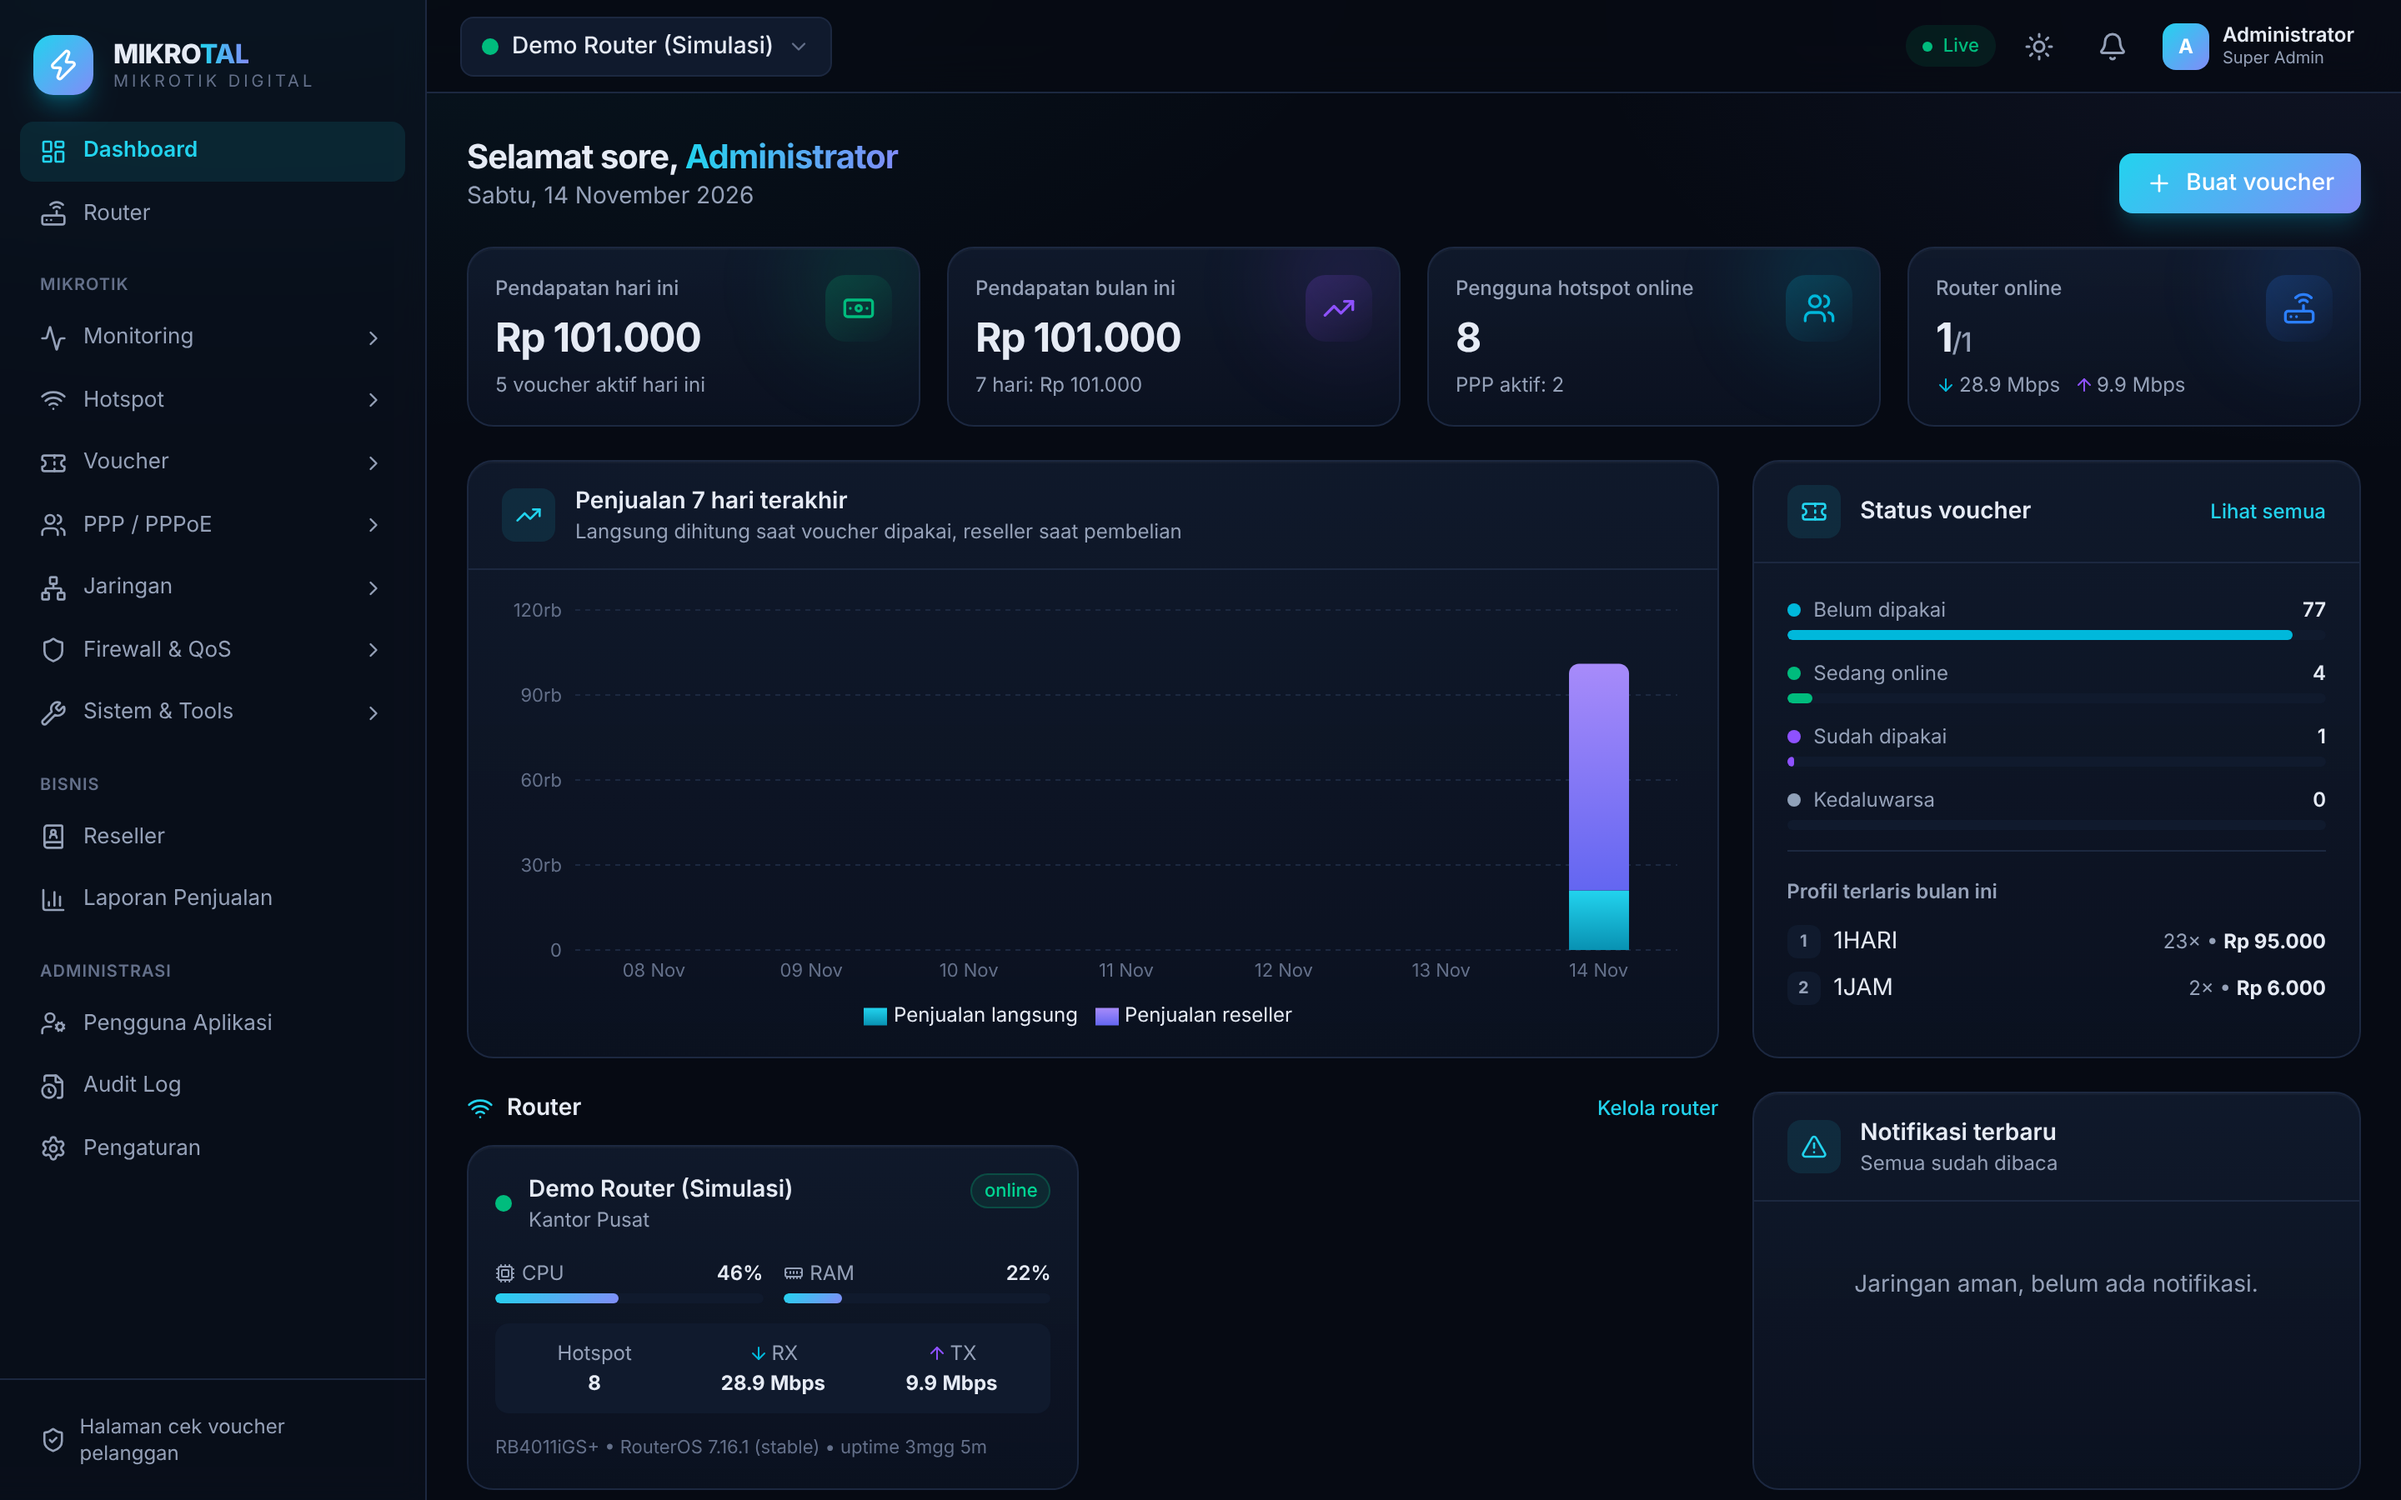
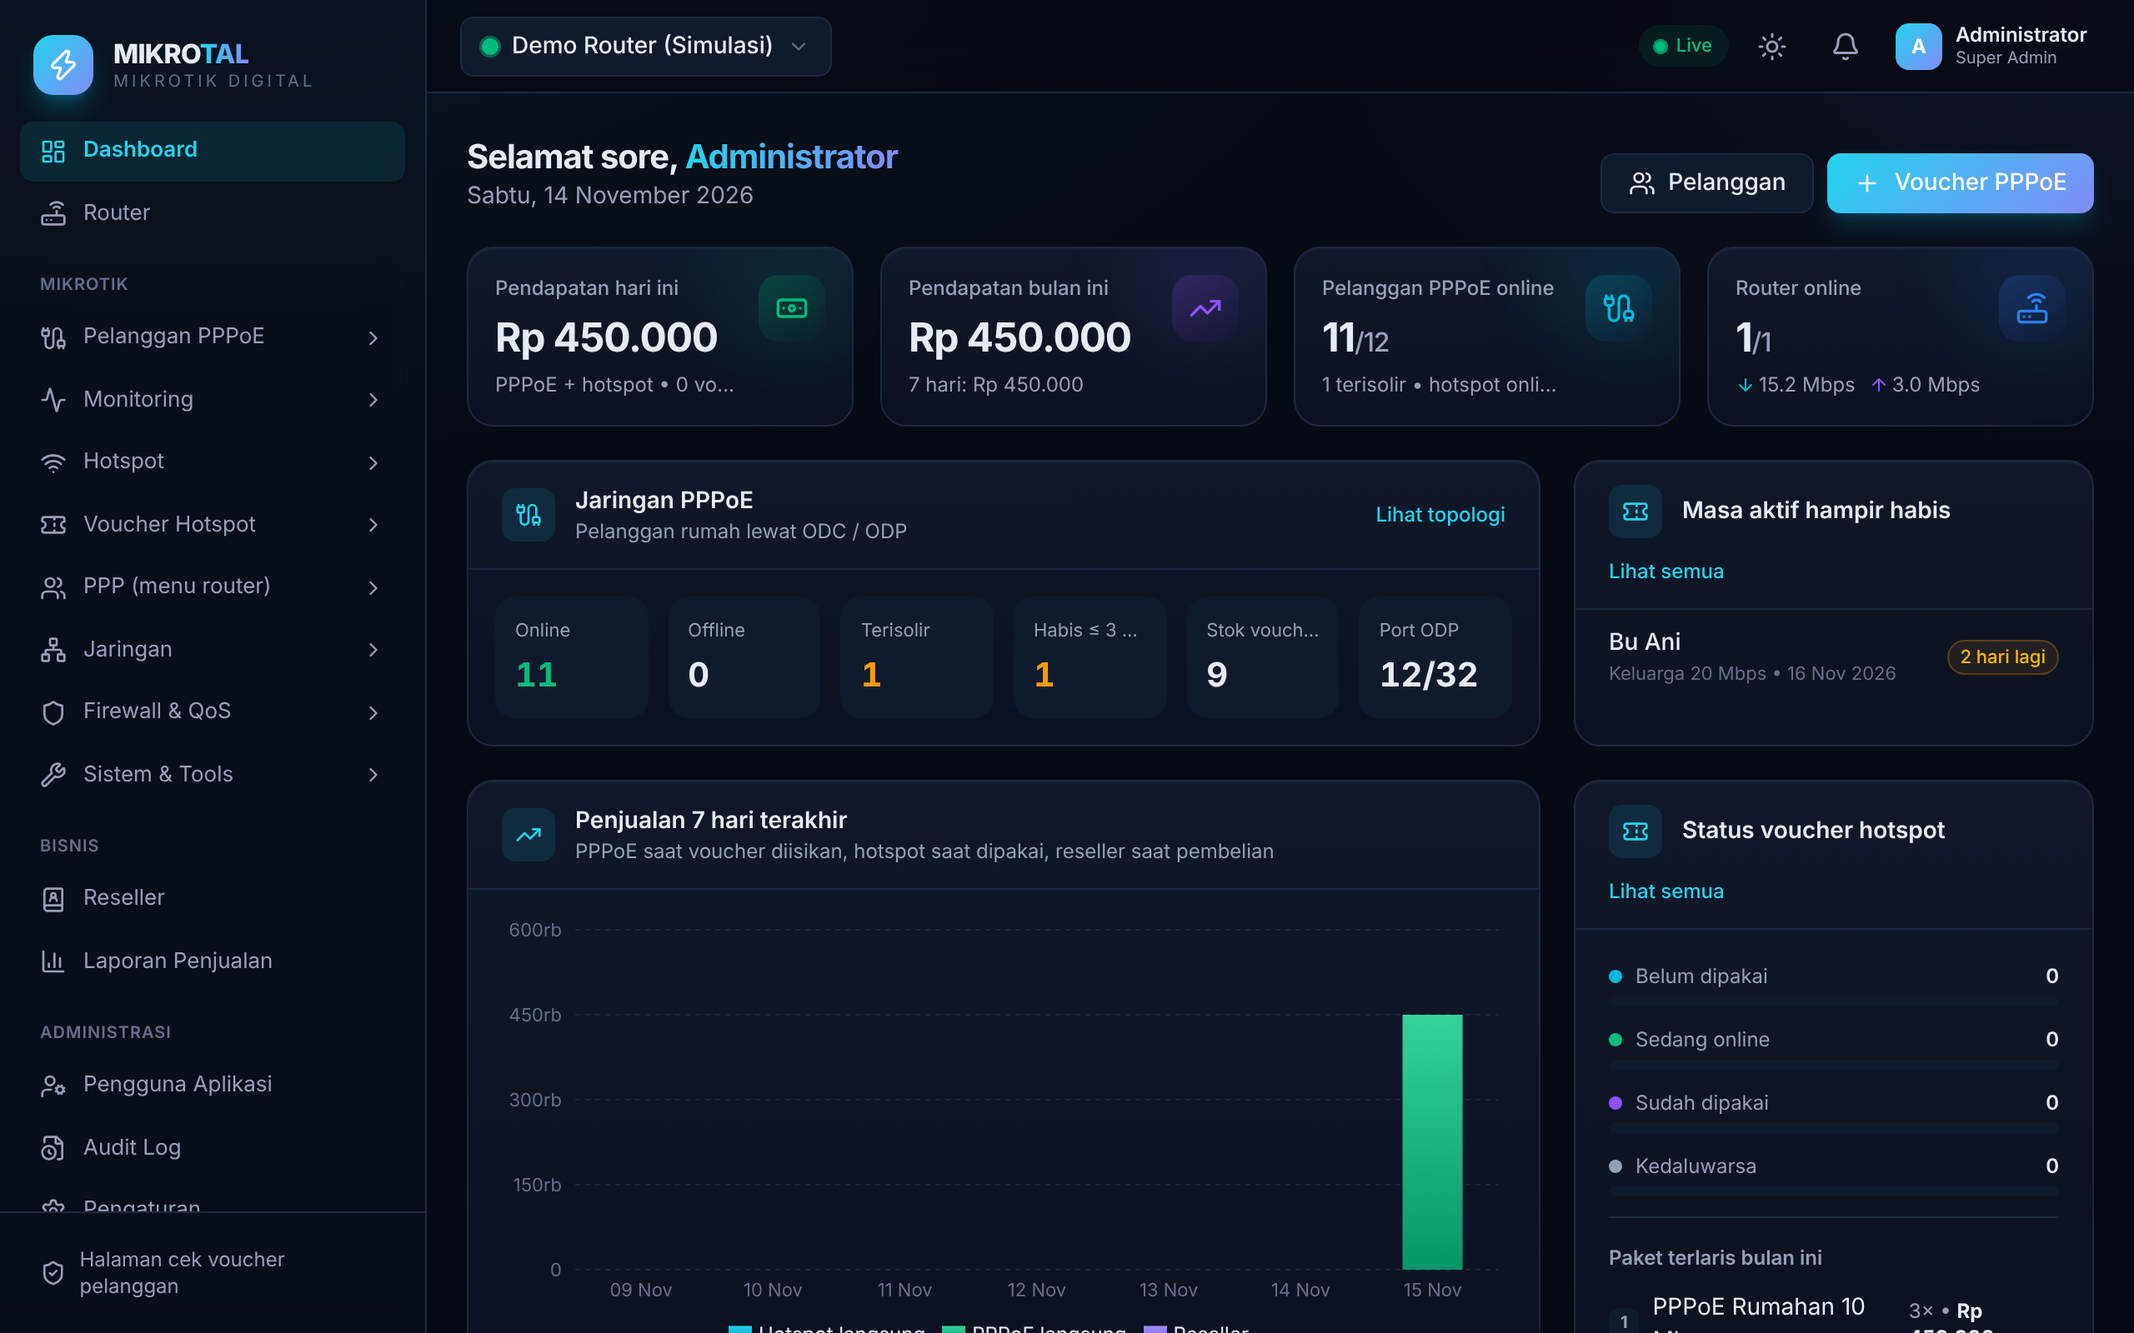
README sebagai artikel: informasi aplikasi, tangkapan layar, dan cara install
Panduan instal memakai branch main.

Claude-Session: https://claude.ai/code/session_01FKvTZUC4FHYdoLMvNywH88

diff --git a/README.md b/README.md
@@ -1,8 +1,68 @@
 # MIKROTAL — Mikrotik Digital
 
-Dashboard web untuk **monitoring, konfigurasi MikroTik, manajemen hotspot, dan penjualan voucher**. Satu aplikasi untuk banyak router, realtime, dan bisa dipakai dari HP. Winbox atau Mikhmon tidak diperlukan untuk pekerjaan sehari-hari.
+**MIKROTAL** adalah aplikasi web untuk mengelola jaringan MikroTik dari satu tempat: monitoring router, konfigurasi tanpa Winbox, hotspot dan voucher, serta pengelolaan **RT/RW Net berbasis PPPoE** lewat ODC dan ODP. Aplikasi dipasang di server sendiri, dibuka dari browser komputer atau HP, dan berbahasa Indonesia.
 
 ![Dashboard](docs/screenshots/dashboard.png)
+
+## Untuk siapa aplikasi ini
+
+- **Pengelola RT/RW Net** yang membagikan internet lewat fiber (OLT → ODC → ODP → rumah) dengan akun PPPoE dan sistem voucher.
+- **Pemilik hotspot voucher** (warung, kos, kafe) yang ingin generate, cetak, dan memantau voucher tanpa Mikhmon.
+- **Teknisi jaringan** yang butuh memantau banyak router dan mengubah konfigurasi dari HP.
+
+## Ringkasan kemampuan
+
+| Kebutuhan | Yang dikerjakan MIKROTAL |
+|---|---|
+| Tahu kondisi jaringan | Status router, CPU, RAM, trafik live, pelanggan online/offline, notifikasi ke Telegram |
+| Mengelola pelanggan rumah | Data pelanggan terhubung ke akun PPPoE, paket, masa aktif, dan port ODP |
+| Menagih tanpa repot | Voucher isi ulang masa aktif, isolir otomatis saat habis, halaman isi ulang untuk pelanggan |
+| Mencari kabel putus | Peta jalur server → ODC → ODP → rumah dan scan yang menunjuk segmen yang diduga putus |
+| Menjual voucher hotspot | Generate massal, cetak dengan QR, reseller bersaldo, laporan penjualan |
+| Mengatur router | 40+ menu RouterOS (firewall, queue, DHCP, PPP, dll) tanpa Winbox |
+
+| Pelanggan PPPoE | Topologi ODC / ODP |
+|---|---|
+| ![Pelanggan](docs/screenshots/pelanggan.png) | ![Topologi](docs/screenshots/topologi.png) |
+
+| Troubleshoot jalur kabel | Halaman isi ulang pelanggan |
+|---|---|
+| ![Troubleshoot](docs/screenshots/troubleshoot.png) | <img src="docs/screenshots/isi-ulang.png" alt="Isi ulang" width="260"> |
+
+## Cara install
+
+Butuh **Node.js 22.13 atau lebih baru** dan **Git**. Berjalan di Windows, Linux, dan macOS.
+
+```bash
+git clone https://github.com/nezzconstruction-cloud/MIKROTAL.git
+cd MIKROTAL
+cp .env.example .env        # Windows: copy .env.example .env
+```
+
+Buka file `.env`, ganti `APP_SECRET` dan `ADMIN_PASSWORD`, lalu:
+
+```bash
+npm install
+npm run build
+npm start
+```
+
+Buka `http://localhost:8080` (atau `http://IP-SERVER:8080` dari perangkat lain) dan login dengan `admin` serta password dari `.env` (bawaan `admin123`).
+
+Saat pertama jalan, otomatis dibuat:
+- akun **admin** (segera ganti password di menu *Akun saya*);
+- **Demo Router (Simulasi)** beserta contoh paket, ODC/ODP, pelanggan, profil hotspot, dan satu reseller, supaya semua fitur bisa langsung dicoba tanpa MikroTik. Hapus setelah menambahkan router asli, atau set `SEED_DEMO=false`.
+
+Pilihan lain dengan Docker:
+
+```bash
+cp .env.example .env        # ganti APP_SECRET dan ADMIN_PASSWORD
+docker compose up -d --build
+```
+
+Panduan lengkap (update dari versi sebelumnya, cadangan data, menjalankan otomatis saat server menyala, dan masalah yang sering muncul) ada di **[INSTALL.md](INSTALL.md)**.
+
+Setelah terpasang, lanjutkan ke [Menghubungkan MikroTik asli](#menghubungkan-mikrotik-asli) dan [Alur PPPoE (RT/RW Net)](#alur-pppoe-rtrw-net).
 
 ## Fitur utama
 
@@ -69,36 +129,6 @@ Dashboard web untuk **monitoring, konfigurasi MikroTik, manajemen hotspot, dan p
 - **server/**: Node.js 22 + TypeScript + Fastify. Klien RouterOS API ditulis sendiri tanpa library (mendukung TLS, login lama/baru, banyak perintah paralel). Database SQLite bawaan Node (`node:sqlite`), jadi tidak perlu compile modul native.
 - **web/**: React 19 + Vite + Tailwind CSS 4 + TanStack Query + Recharts.
 - **Mode simulasi**: router virtual yang meniru RouterOS (trafik bergerak, pengguna hotspot login/logout, voucher terpakai). Berguna untuk demo, pelatihan, dan pengujian tanpa perangkat asli.
-
-## Mulai cepat
-
-> Panduan langkah demi langkah untuk instal baru, update dari versi sebelumnya, dan menjalankan otomatis ada di [INSTALL.md](INSTALL.md).
-
-### Opsi A — Docker (disarankan untuk server/VPS)
-
-```bash
-git clone https://github.com/nezzconstruction-cloud/MIKROTAL.git
-cd MIKROTAL
-cp .env.example .env        # ganti APP_SECRET dan ADMIN_PASSWORD
-docker compose up -d --build
-```
-
-Buka `http://IP-SERVER:8080`, lalu login dengan `admin` / `admin123` (atau sesuai `.env`).
-
-### Opsi B — Node.js langsung (Windows/Linux/macOS)
-
-Butuh **Node.js 22.13 atau lebih baru**.
-
-```bash
-npm install
-cp .env.example .env        # Windows: copy .env.example .env
-npm run build
-npm start
-```
-
-Saat pertama jalan, otomatis dibuat:
-- akun **admin / admin123** (segera ganti di menu *Akun saya*);
-- **Demo Router (Simulasi)** beserta contoh profil harga dan satu reseller, supaya semua fitur bisa langsung dicoba. Hapus setelah menambahkan router asli, atau set `SEED_DEMO=false`.
 
 ## Menghubungkan MikroTik asli
 

diff --git a/INSTALL.md b/INSTALL.md
@@ -2,8 +2,6 @@
 
 Panduan ini untuk versi terbaru yang memuat fitur RT/RW Net: pelanggan PPPoE, voucher isi ulang, isolir, topologi ODC/ODP dengan peta, dan Troubleshoot Jalur.
 
-> **Versi terbaru ada di branch `claude/relaxed-johnson-3ibhie`** selama pull request-nya belum digabung ke `main`. Setelah digabung, ganti nama branch di perintah di bawah menjadi `main`.
-
 ## Yang dibutuhkan
 
 | Kebutuhan | Keterangan |
@@ -35,10 +33,6 @@ git clone https://github.com/nezzconstruction-cloud/MIKROTAL.git
 
 ```bash
 cd MIKROTAL
-```
-
-```bash
-git checkout claude/relaxed-johnson-3ibhie
 ```
 
 ### 2. Buat file pengaturan `.env`
@@ -124,11 +118,7 @@ xcopy data data-backup /E /I
 ### 3. Ambil kode terbaru
 
 ```bash
-git fetch origin
-```
-
-```bash
-git checkout claude/relaxed-johnson-3ibhie
+git checkout main
 ```
 
 ```bash
@@ -169,10 +159,6 @@ git clone https://github.com/nezzconstruction-cloud/MIKROTAL.git
 
 ```bash
 cd MIKROTAL
-```
-
-```bash
-git checkout claude/relaxed-johnson-3ibhie
 ```
 
 ```bash
